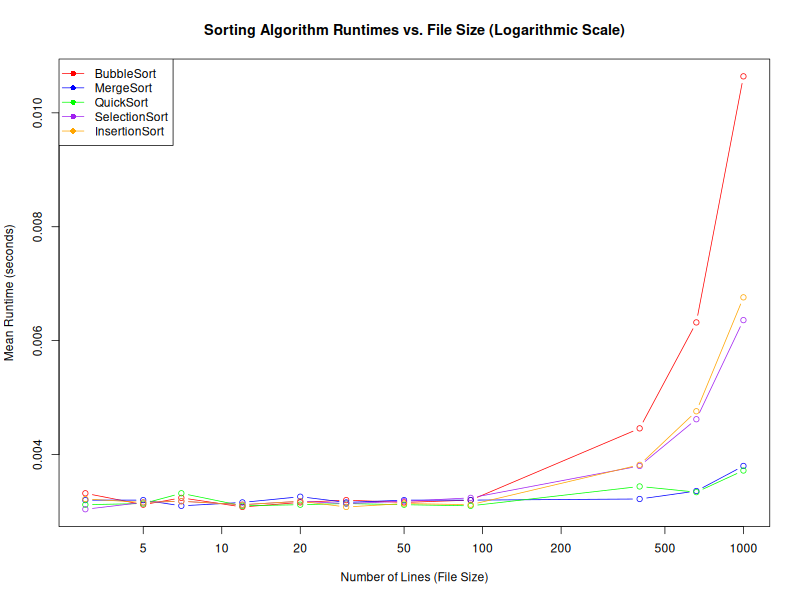
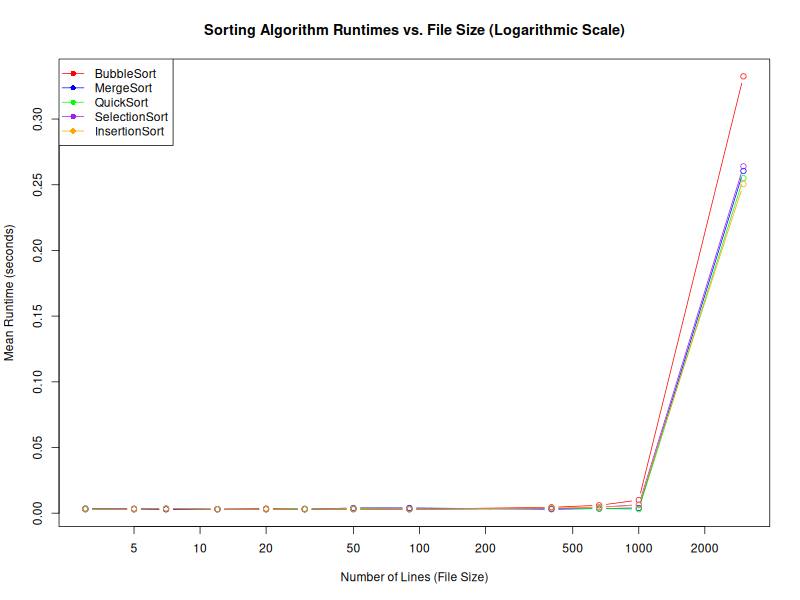
working for >1000

diff --git a/src/MergeSort.c b/src/MergeSort.c
@@ -3,10 +3,18 @@
 
 // Merge function
 void merge(int arr[], int p, int q, int r) {
+
     int n1 = q - p + 1;
     int n2 = r - q;
 
-    int L[n1], M[n2];
+    int *L = malloc(n1 * sizeof(int));
+    int *M = malloc(n2 * sizeof(int));
+
+    if (L == NULL || M == NULL) {
+        // Handle allocation failure
+        printf("Memory allocation failed\n");
+        exit(1);
+    }
 
     for (int i = 0; i < n1; i++)
         L[i] = arr[p + i];
@@ -37,6 +45,9 @@ void merge(int arr[], int p, int q, int r) {
         j++;
         k++;
     }
+
+    free(L);
+    free(M);
 }
 
 // Recursive merge sort function
@@ -71,7 +82,7 @@ int main(int argc, char *argv[]) {
         return 1;
     }
 
-    int arr[1000];  // Array to store up to 1000 numbers (adjustable)
+    int arr[3000];  // Array to store up to 1000 numbers (adjustable)
     int size = 0;
 
     // Read integers from the file
